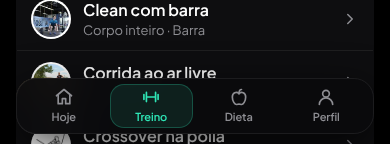
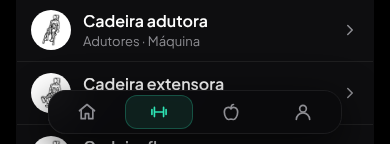
Celular: menu só com ícones; ao encolher, os ícones diminuem
Claude-Session: https://claude.ai/code/session_01Es3nx4fktYmLRAEuFrMwCv

diff --git a/js/app.js b/js/app.js
@@ -57,7 +57,7 @@ async function renderizar({ preservarRolagem = false } = {}) {
 
 function montarAbas() {
   document.getElementById('tabbar').innerHTML = Modulos.abas().map(a =>
-    `<a href="#${a.rota}" data-rota="${a.rota}" data-inclui="${(a.inclui || []).join(',')}">${a.icone}<span>${a.nome}</span></a>`).join('');
+    `<a href="#${a.rota}" aria-label="${a.nome}" data-rota="${a.rota}" data-inclui="${(a.inclui || []).join(',')}">${a.icone}<span>${a.nome}</span></a>`).join('');
   // Troca de aba já no toque: no iPhone, com a tela ainda deslizando, o Safari usa o
   // primeiro toque só para parar a rolagem e não manda o "click". Então, se a tela rolou
   // há pouco, a aba troca no instante em que o dedo encosta; parada, troca ao soltar.

diff --git a/css/style.css b/css/style.css
@@ -1332,3 +1332,10 @@ html, body { height: 100%; overflow: hidden; }
 body { min-height: 0; }
 #app { height: 100%; overflow-y: auto; overflow-x: hidden; overscroll-behavior-y: none; -webkit-overflow-scrolling: touch; }
 body.com-modal #app, body.com-tela-salvar #app { overflow: hidden; }
+
+/* Celular: menu só com ícones; ao encolher, só os ícones diminuem */
+@media (max-width: 899px) {
+  .tabbar a span { display: none; }
+  .tabbar a svg { width: 26px; height: 26px; }
+  body.menu-compacto .tabbar a svg { width: 20px; height: 20px; }
+}

diff --git a/service-worker.js b/service-worker.js
@@ -8,7 +8,7 @@
 // Ao adicionar arquivos novos (ex.: módulo de dieta), inclua-os em ARQUIVOS
 // e aumente VERSAO.
 
-const VERSAO = 'v58';
+const VERSAO = 'v59';
 const CACHE_APP = `app-${VERSAO}`;
 const CACHE_CDN = 'cdn-v1';
 const CACHE_FOTOS = 'fotos-v1'; // fotos dos exercícios (não mudam)
